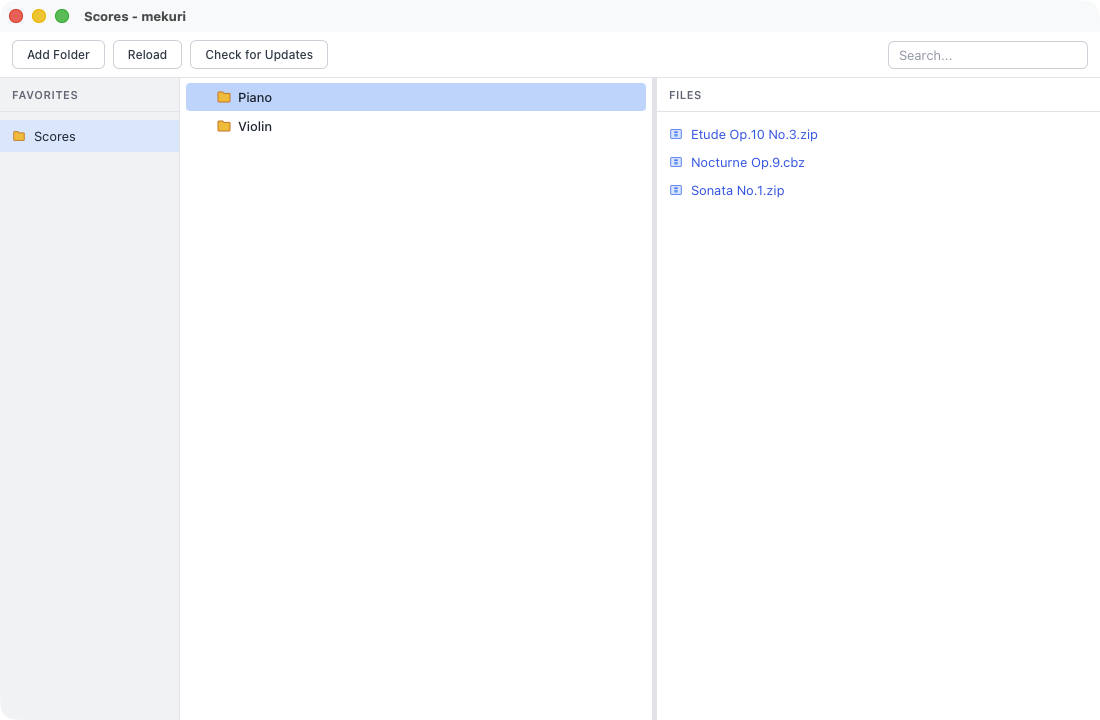
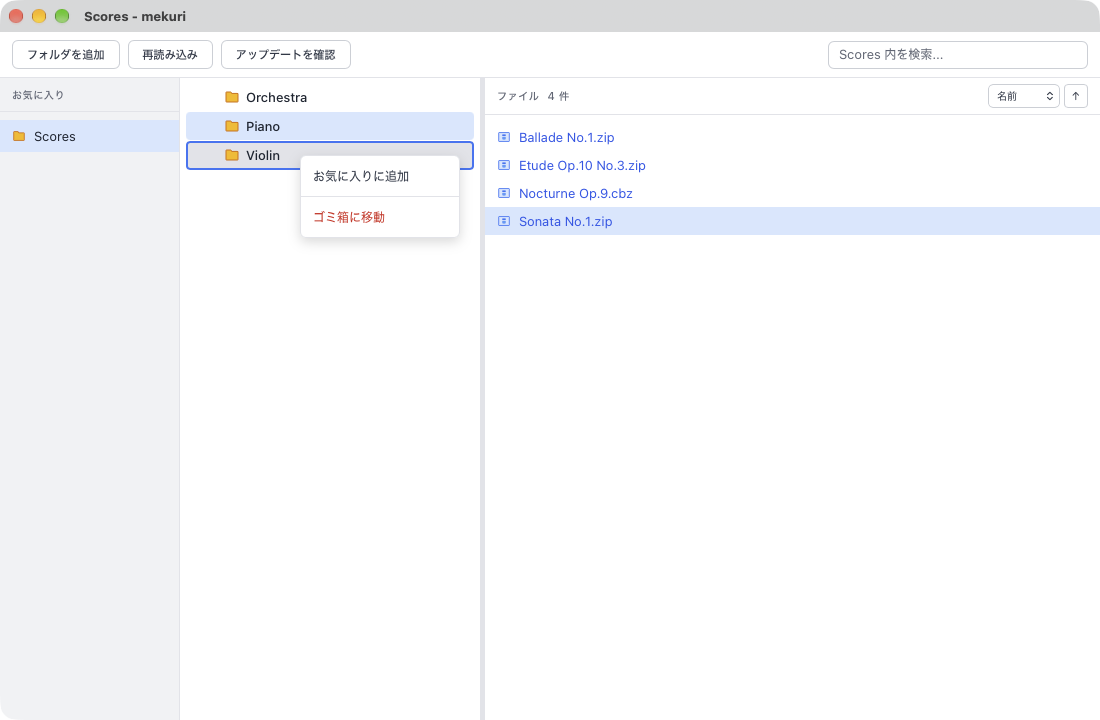
Refresh README screenshots and feature list (#92)
Retake the main window, viewer, and triple-page screenshots with the
current Japanese UI (file count, sort, folder context menu), and list
the file list, search, and viewer mode features.

Claude-Session: https://claude.ai/code/session_01F24vRzEYqteNpxfBwaAH3p

diff --git a/README.md b/README.md
@@ -1,18 +1,18 @@
 # mekuri
 
-圧縮ファイル（ZIP/RAR）内の画像を見開き表示で閲覧するデスクトップアプリケーション。
+圧縮ファイル（ZIP/RAR）内の画像と PDF を見開き表示で閲覧するデスクトップアプリケーション。
 
 ## スクリーンショット
 
-メインウィンドウ（お気に入り | フォルダツリー | ファイル一覧の 3 カラム）:
+メインウィンドウ（お気に入り | フォルダツリー | ファイル一覧の 3 カラム。フォルダを右クリックすると、お気に入りへの追加やゴミ箱への移動ができる）:
 
 ![メインウィンドウ](docs/images/main-window.png)
 
-ビューワーウィンドウ（見開き表示、フッターでページ送り・表示モード・読み方向を切替）:
+ビューワーウィンドウ（右綴じの見開き表示。フッターでページ送り・表示モード・読み方向を切り替える）:
 
 ![ビューワーウィンドウ](docs/images/viewer-window.png)
 
-3 ページ表示モード（譜面のように横に続けて読みたいときに便利）:
+3 ページ表示モード（左綴じ。譜面のように横に続けて読みたいときに便利）:
 
 ![3 ページ表示](docs/images/viewer-triple.png)
 
@@ -20,7 +20,9 @@
 
 - **お気に入りフォルダ**: よく使うフォルダを登録して素早くアクセス
 - **フォルダツリー**: ディレクトリ階層をツリー表示し、アーカイブファイルを探索。不要になったフォルダは右クリックから中身ごとゴミ箱へ移動できる
-- **見開きビューワー**: アーカイブ内の画像を2ページ並列で表示（右綴じ対応）。横長のページは自動で単独表示
+- **ファイル一覧**: 件数を表示し、名前・更新日時・サイズで並べ替えられる。複数選択してまとめてゴミ箱へ移動したり、フォルダへドラッグして移動したりできる
+- **検索**: 選択中のお気に入りの中から、フォルダとファイルを名前で探せる
+- **見開きビューワー**: アーカイブ内の画像と PDF を2ページ並列で表示（右綴じ・左綴じを切替）。単ページ・3 ページ表示にも切り替えられる。横長のページは自動で単独表示
 - **マルチウィンドウ**: メインウィンドウとビューワーウィンドウの分離
 - **設定の永続化**: ウィンドウサイズやカラム幅を自動保存
 
